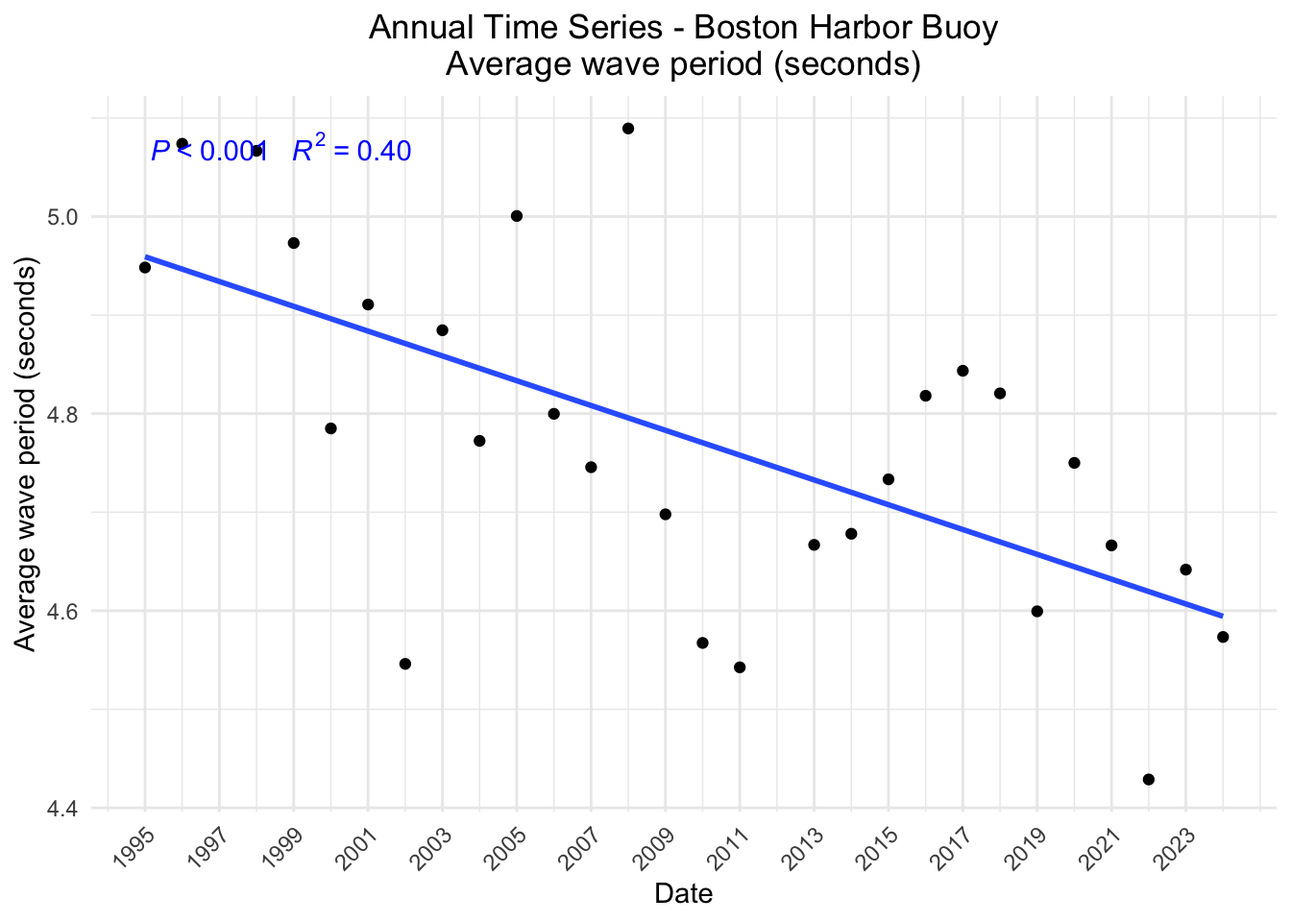
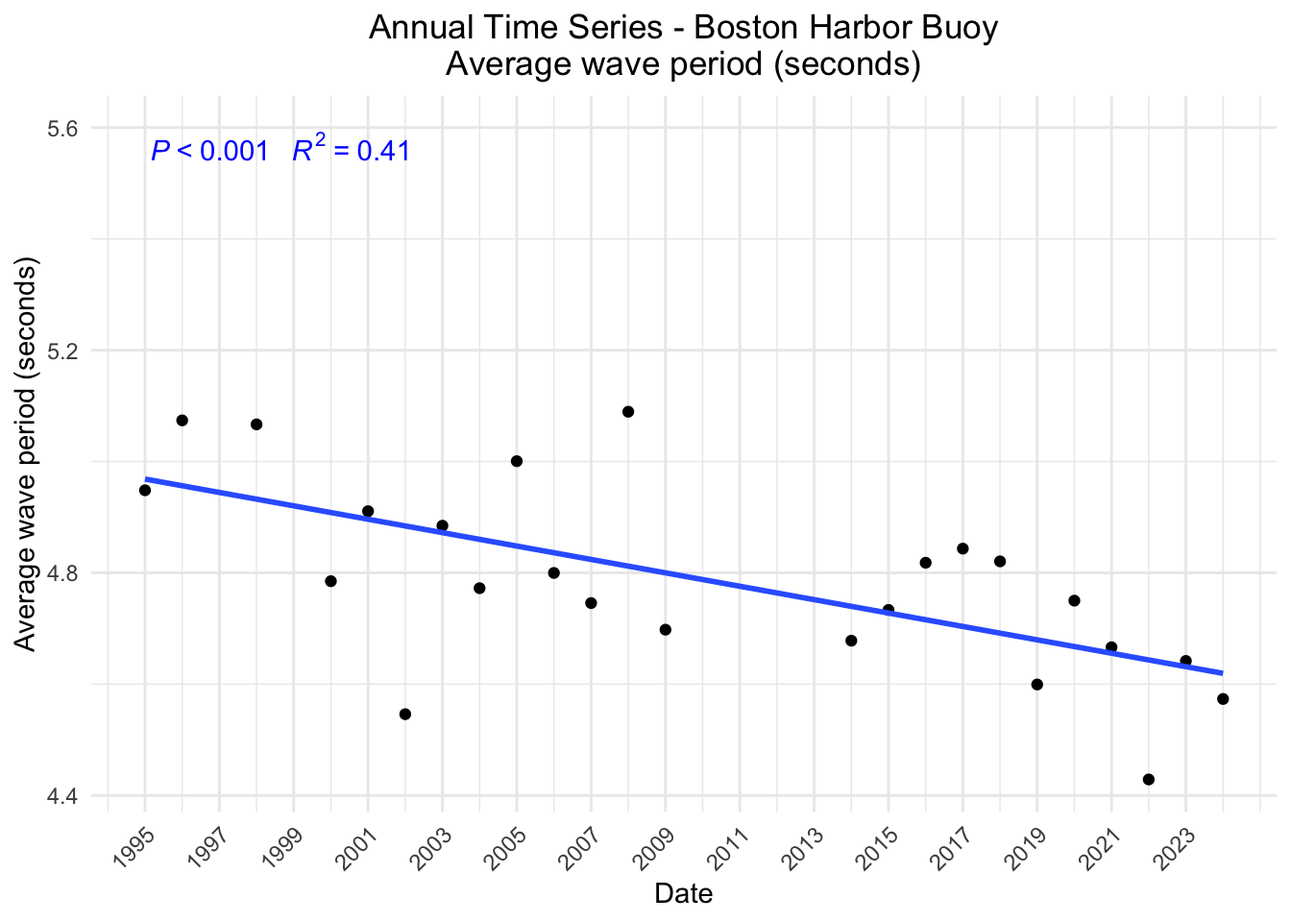
Corrected missing data solution for annual means. Previously had included years with >=80% complete data, now only includes years in which each month has >=80% data.

diff --git a/quarto_docs/buoy_44013_NDBC.html b/quarto_docs/buoy_44013_NDBC.html
@@ -107,8 +107,6 @@ pre > code.sourceCode > span > a:first-child::before { text-decoration: underlin
 <section id="ndbc-buoy-44013---boston-harbor" class="level1">
 <h1>NDBC Buoy 44013 - Boston Harbor</h1>
 <div class="cell">
-<details class="code-fold">
-<summary>Show the code</summary>
 <div class="sourceCode cell-code" id="cb1"><pre class="sourceCode r code-with-copy"><code class="sourceCode r"><span id="cb1-1"><a href="#cb1-1" aria-hidden="true" tabindex="-1"></a><span class="co">#'--------------------------------------</span></span>
 <span id="cb1-2"><a href="#cb1-2" aria-hidden="true" tabindex="-1"></a><span class="co">#' Station 44013</span></span>
 <span id="cb1-3"><a href="#cb1-3" aria-hidden="true" tabindex="-1"></a><span class="co">#' Boston Approach Lighted Buoy BF NOAA 44013</span></span>
@@ -119,7 +117,6 @@ pre > code.sourceCode > span > a:first-child::before { text-decoration: underlin
 <span id="cb1-8"><a href="#cb1-8" aria-hidden="true" tabindex="-1"></a><span class="co">#' Boston Harbor</span></span>
 <span id="cb1-9"><a href="#cb1-9" aria-hidden="true" tabindex="-1"></a><span class="co">#' Owned and maintained by NDBC</span></span>
 <span id="cb1-10"><a href="#cb1-10" aria-hidden="true" tabindex="-1"></a><span class="co">#'--------------------------------------</span></span></code><button title="Copy to Clipboard" class="code-copy-button"><i class="bi"></i></button></pre></div>
-</details>
 </div>
 <section id="load-libraries" class="level3">
 <h3 class="anchored" data-anchor-id="load-libraries">Load Libraries</h3>
@@ -465,68 +462,125 @@ pre > code.sourceCode > span > a:first-child::before { text-decoration: underlin
 <span id="cb6-6"><a href="#cb6-6" aria-hidden="true" tabindex="-1"></a><span class="co">#   summarize(count_obs = n())</span></span>
 <span id="cb6-7"><a href="#cb6-7" aria-hidden="true" tabindex="-1"></a><span class="co"># 1997 and 2012 are missing large time periods of data</span></span>
 <span id="cb6-8"><a href="#cb6-8" aria-hidden="true" tabindex="-1"></a></span>
-<span id="cb6-9"><a href="#cb6-9" aria-hidden="true" tabindex="-1"></a>buoy_data_annual <span class="ot">&lt;-</span> buoy_data_daily <span class="sc">|&gt;</span> </span>
-<span id="cb6-10"><a href="#cb6-10" aria-hidden="true" tabindex="-1"></a>  <span class="fu">group_by</span>(YYYY) <span class="sc">|&gt;</span> </span>
-<span id="cb6-11"><a href="#cb6-11" aria-hidden="true" tabindex="-1"></a>  <span class="co"># 1997 and 2012 are missing large time periods of data. Excluding from annual summaries  </span></span>
-<span id="cb6-12"><a href="#cb6-12" aria-hidden="true" tabindex="-1"></a>  <span class="fu">filter</span>(<span class="sc">!</span>(YYYY <span class="sc">%in%</span> <span class="fu">c</span>(<span class="dv">1997</span>, <span class="dv">2012</span>))) <span class="sc">|&gt;</span> </span>
-<span id="cb6-13"><a href="#cb6-13" aria-hidden="true" tabindex="-1"></a>  <span class="fu">summarize</span>(</span>
-<span id="cb6-14"><a href="#cb6-14" aria-hidden="true" tabindex="-1"></a>    <span class="co"># scalar variables: only mean if ≥80% non‑NA, else NA</span></span>
-<span id="cb6-15"><a href="#cb6-15" aria-hidden="true" tabindex="-1"></a>    <span class="fu">across</span>(<span class="fu">all_of</span>(scalar_variables),</span>
-<span id="cb6-16"><a href="#cb6-16" aria-hidden="true" tabindex="-1"></a>           <span class="sc">~</span> <span class="fu">ifelse</span>(</span>
-<span id="cb6-17"><a href="#cb6-17" aria-hidden="true" tabindex="-1"></a>             <span class="fu">sum</span>(<span class="sc">!</span><span class="fu">is.na</span>(.x)) <span class="sc">&gt;=</span> <span class="fl">0.8</span> <span class="sc">*</span> <span class="fu">n</span>(),</span>
-<span id="cb6-18"><a href="#cb6-18" aria-hidden="true" tabindex="-1"></a>             <span class="fu">mean</span>(.x, <span class="at">na.rm =</span> <span class="cn">TRUE</span>),</span>
-<span id="cb6-19"><a href="#cb6-19" aria-hidden="true" tabindex="-1"></a>             <span class="cn">NA_real_</span></span>
-<span id="cb6-20"><a href="#cb6-20" aria-hidden="true" tabindex="-1"></a>           )</span>
+<span id="cb6-9"><a href="#cb6-9" aria-hidden="true" tabindex="-1"></a></span>
+<span id="cb6-10"><a href="#cb6-10" aria-hidden="true" tabindex="-1"></a><span class="co"># Determine valid years (each month has &gt;= 80% complete data) for each variable</span></span>
+<span id="cb6-11"><a href="#cb6-11" aria-hidden="true" tabindex="-1"></a><span class="co"># For each variable, calculate the annual mean only for years valid for that variable</span></span>
+<span id="cb6-12"><a href="#cb6-12" aria-hidden="true" tabindex="-1"></a>buoy_data_daily_props <span class="ot">&lt;-</span> buoy_data_daily <span class="sc">|&gt;</span> </span>
+<span id="cb6-13"><a href="#cb6-13" aria-hidden="true" tabindex="-1"></a>  <span class="co"># Group by year and month  </span></span>
+<span id="cb6-14"><a href="#cb6-14" aria-hidden="true" tabindex="-1"></a>  <span class="fu">group_by</span>(YYYY, MM) <span class="sc">|&gt;</span> </span>
+<span id="cb6-15"><a href="#cb6-15" aria-hidden="true" tabindex="-1"></a>  <span class="co"># For each variable, determine how many real daily measurements are recorded (not NA or NaN)</span></span>
+<span id="cb6-16"><a href="#cb6-16" aria-hidden="true" tabindex="-1"></a>  <span class="fu">summarize</span>(</span>
+<span id="cb6-17"><a href="#cb6-17" aria-hidden="true" tabindex="-1"></a>    <span class="fu">across</span>(</span>
+<span id="cb6-18"><a href="#cb6-18" aria-hidden="true" tabindex="-1"></a>      <span class="at">.cols =</span> <span class="fu">all_of</span>(variables),</span>
+<span id="cb6-19"><a href="#cb6-19" aria-hidden="true" tabindex="-1"></a>      <span class="at">.fns =</span> <span class="sc">~</span><span class="fu">sum</span>(<span class="sc">!</span><span class="fu">is.na</span>(.)),</span>
+<span id="cb6-20"><a href="#cb6-20" aria-hidden="true" tabindex="-1"></a>      <span class="at">.names =</span> <span class="st">"{.col}"</span></span>
 <span id="cb6-21"><a href="#cb6-21" aria-hidden="true" tabindex="-1"></a>    ),</span>
-<span id="cb6-22"><a href="#cb6-22" aria-hidden="true" tabindex="-1"></a>    </span>
-<span id="cb6-23"><a href="#cb6-23" aria-hidden="true" tabindex="-1"></a>    <span class="co"># angular variables: only circular‐mean if ≥80% non‑NA, else NA</span></span>
-<span id="cb6-24"><a href="#cb6-24" aria-hidden="true" tabindex="-1"></a>    <span class="fu">across</span>(<span class="fu">all_of</span>(angular_variables),</span>
-<span id="cb6-25"><a href="#cb6-25" aria-hidden="true" tabindex="-1"></a>           <span class="sc">~</span> <span class="fu">ifelse</span>(</span>
-<span id="cb6-26"><a href="#cb6-26" aria-hidden="true" tabindex="-1"></a>             <span class="fu">sum</span>(<span class="sc">!</span><span class="fu">is.na</span>(.x)) <span class="sc">&gt;=</span> <span class="fl">0.8</span> <span class="sc">*</span> <span class="fu">n</span>(),</span>
-<span id="cb6-27"><a href="#cb6-27" aria-hidden="true" tabindex="-1"></a>             <span class="fu">as.numeric</span>(</span>
-<span id="cb6-28"><a href="#cb6-28" aria-hidden="true" tabindex="-1"></a>               circular<span class="sc">::</span><span class="fu">mean.circular</span>(</span>
-<span id="cb6-29"><a href="#cb6-29" aria-hidden="true" tabindex="-1"></a>                 circular<span class="sc">::</span><span class="fu">circular</span>(.x, <span class="at">units =</span> <span class="st">"degrees"</span>, <span class="at">modulo =</span> <span class="st">"2pi"</span>),</span>
-<span id="cb6-30"><a href="#cb6-30" aria-hidden="true" tabindex="-1"></a>                 <span class="at">na.rm =</span> <span class="cn">TRUE</span></span>
-<span id="cb6-31"><a href="#cb6-31" aria-hidden="true" tabindex="-1"></a>                 )</span>
-<span id="cb6-32"><a href="#cb6-32" aria-hidden="true" tabindex="-1"></a>               ),</span>
-<span id="cb6-33"><a href="#cb6-33" aria-hidden="true" tabindex="-1"></a>             <span class="cn">NA_real_</span></span>
-<span id="cb6-34"><a href="#cb6-34" aria-hidden="true" tabindex="-1"></a>           )</span>
-<span id="cb6-35"><a href="#cb6-35" aria-hidden="true" tabindex="-1"></a>    ),</span>
-<span id="cb6-36"><a href="#cb6-36" aria-hidden="true" tabindex="-1"></a>    <span class="at">.groups =</span> <span class="st">"drop"</span></span>
-<span id="cb6-37"><a href="#cb6-37" aria-hidden="true" tabindex="-1"></a>  ) <span class="sc">|&gt;</span> </span>
-<span id="cb6-38"><a href="#cb6-38" aria-hidden="true" tabindex="-1"></a>  <span class="fu">relocate</span>(WDIR, <span class="at">.before =</span> WSPD) <span class="sc">|&gt;</span> </span>
-<span id="cb6-39"><a href="#cb6-39" aria-hidden="true" tabindex="-1"></a>  <span class="fu">relocate</span>(MWD, <span class="at">.before =</span> ATMP)</span>
-<span id="cb6-40"><a href="#cb6-40" aria-hidden="true" tabindex="-1"></a></span>
-<span id="cb6-41"><a href="#cb6-41" aria-hidden="true" tabindex="-1"></a></span>
-<span id="cb6-42"><a href="#cb6-42" aria-hidden="true" tabindex="-1"></a><span class="co"># Plot annual mean values for each variable</span></span>
-<span id="cb6-43"><a href="#cb6-43" aria-hidden="true" tabindex="-1"></a><span class="cf">for</span> (var <span class="cf">in</span> variables) {</span>
-<span id="cb6-44"><a href="#cb6-44" aria-hidden="true" tabindex="-1"></a>  p <span class="ot">&lt;-</span> <span class="fu">ggplot</span>(buoy_data_annual,</span>
-<span id="cb6-45"><a href="#cb6-45" aria-hidden="true" tabindex="-1"></a>              <span class="fu">aes</span>(<span class="at">x =</span> YYYY,</span>
-<span id="cb6-46"><a href="#cb6-46" aria-hidden="true" tabindex="-1"></a>                  <span class="at">y =</span> .data[[var]])) <span class="sc">+</span></span>
-<span id="cb6-47"><a href="#cb6-47" aria-hidden="true" tabindex="-1"></a>    <span class="fu">geom_point</span>() <span class="sc">+</span></span>
-<span id="cb6-48"><a href="#cb6-48" aria-hidden="true" tabindex="-1"></a>    <span class="fu">geom_smooth</span>(<span class="at">method =</span> <span class="st">"lm"</span>, <span class="at">se =</span> <span class="cn">FALSE</span>) <span class="sc">+</span></span>
-<span id="cb6-49"><a href="#cb6-49" aria-hidden="true" tabindex="-1"></a>    </span>
-<span id="cb6-50"><a href="#cb6-50" aria-hidden="true" tabindex="-1"></a>    <span class="co"># Annotate plot with simple linear model p-values and R2 values</span></span>
-<span id="cb6-51"><a href="#cb6-51" aria-hidden="true" tabindex="-1"></a>    <span class="fu">stat_poly_eq</span>(</span>
-<span id="cb6-52"><a href="#cb6-52" aria-hidden="true" tabindex="-1"></a>      <span class="fu">aes</span>(</span>
-<span id="cb6-53"><a href="#cb6-53" aria-hidden="true" tabindex="-1"></a>        <span class="at">label =</span> <span class="fu">after_stat</span>(</span>
-<span id="cb6-54"><a href="#cb6-54" aria-hidden="true" tabindex="-1"></a>          <span class="fu">paste0</span>(..p.value.label.., <span class="st">"~~~"</span>, ..rr.label..)</span>
-<span id="cb6-55"><a href="#cb6-55" aria-hidden="true" tabindex="-1"></a>        )</span>
-<span id="cb6-56"><a href="#cb6-56" aria-hidden="true" tabindex="-1"></a>      ),</span>
-<span id="cb6-57"><a href="#cb6-57" aria-hidden="true" tabindex="-1"></a>      <span class="at">formula =</span> y <span class="sc">~</span> x,</span>
-<span id="cb6-58"><a href="#cb6-58" aria-hidden="true" tabindex="-1"></a>      <span class="at">parse =</span> <span class="cn">TRUE</span>,</span>
-<span id="cb6-59"><a href="#cb6-59" aria-hidden="true" tabindex="-1"></a>      <span class="at">color =</span> <span class="st">"blue"</span>) <span class="sc">+</span></span>
-<span id="cb6-60"><a href="#cb6-60" aria-hidden="true" tabindex="-1"></a>    </span>
-<span id="cb6-61"><a href="#cb6-61" aria-hidden="true" tabindex="-1"></a>    <span class="fu">labs</span>(<span class="at">x =</span> <span class="st">"Date"</span>,</span>
-<span id="cb6-62"><a href="#cb6-62" aria-hidden="true" tabindex="-1"></a>         <span class="at">y =</span> variables_meta[[var]],</span>
-<span id="cb6-63"><a href="#cb6-63" aria-hidden="true" tabindex="-1"></a>         <span class="at">title =</span> <span class="fu">paste</span>(<span class="st">"Annual Time Series - Boston Harbor Buoy"</span>,</span>
-<span id="cb6-64"><a href="#cb6-64" aria-hidden="true" tabindex="-1"></a>                       variables_meta[[var]], <span class="at">sep =</span> <span class="st">"</span><span class="sc">\n</span><span class="st">"</span>)) <span class="sc">+</span></span>
-<span id="cb6-65"><a href="#cb6-65" aria-hidden="true" tabindex="-1"></a>    <span class="fu">scale_color_brewer</span>(<span class="at">palette =</span> <span class="st">"Set2"</span>) <span class="sc">+</span></span>
-<span id="cb6-66"><a href="#cb6-66" aria-hidden="true" tabindex="-1"></a>    <span class="fu">scale_x_continuous</span>(</span>
-<span id="cb6-67"><a href="#cb6-67" aria-hidden="true" tabindex="-1"></a>      <span class="at">breaks =</span> <span class="fu">seq</span>(<span class="fu">min</span>(buoy_data_annual<span class="sc">$</span>YYYY), <span class="fu">max</span>(buoy_data_annual<span class="sc">$</span>YYYY), <span class="at">by =</span> <span class="dv">2</span>))</span>
-<span id="cb6-68"><a href="#cb6-68" aria-hidden="true" tabindex="-1"></a>  </span>
-<span id="cb6-69"><a href="#cb6-69" aria-hidden="true" tabindex="-1"></a>  <span class="fu">print</span>(p)</span>
-<span id="cb6-70"><a href="#cb6-70" aria-hidden="true" tabindex="-1"></a>}</span></code><button title="Copy to Clipboard" class="code-copy-button"><i class="bi"></i></button></pre></div>
+<span id="cb6-22"><a href="#cb6-22" aria-hidden="true" tabindex="-1"></a>    <span class="at">.groups =</span> <span class="st">"drop"</span></span>
+<span id="cb6-23"><a href="#cb6-23" aria-hidden="true" tabindex="-1"></a>  ) <span class="sc">|&gt;</span> </span>
+<span id="cb6-24"><a href="#cb6-24" aria-hidden="true" tabindex="-1"></a>  <span class="co"># Create a column for days in the month determined with days_in_month()</span></span>
+<span id="cb6-25"><a href="#cb6-25" aria-hidden="true" tabindex="-1"></a>  <span class="fu">mutate</span>(</span>
+<span id="cb6-26"><a href="#cb6-26" aria-hidden="true" tabindex="-1"></a>    <span class="at">days_in_month =</span> <span class="fu">days_in_month</span>(<span class="fu">ymd</span>(<span class="fu">paste</span>(YYYY, MM, <span class="st">"01"</span>, <span class="at">sep =</span> <span class="st">"-"</span>)))) <span class="sc">|&gt;</span> </span>
+<span id="cb6-27"><a href="#cb6-27" aria-hidden="true" tabindex="-1"></a>  <span class="co"># For each variable, calculate proportion of real daily measurements for each month </span></span>
+<span id="cb6-28"><a href="#cb6-28" aria-hidden="true" tabindex="-1"></a>  <span class="fu">mutate</span>(</span>
+<span id="cb6-29"><a href="#cb6-29" aria-hidden="true" tabindex="-1"></a>    <span class="fu">across</span>(</span>
+<span id="cb6-30"><a href="#cb6-30" aria-hidden="true" tabindex="-1"></a>      <span class="at">.cols =</span> <span class="fu">all_of</span>(variables),</span>
+<span id="cb6-31"><a href="#cb6-31" aria-hidden="true" tabindex="-1"></a>      <span class="at">.fns =</span> <span class="sc">~</span>. <span class="sc">/</span> days_in_month,</span>
+<span id="cb6-32"><a href="#cb6-32" aria-hidden="true" tabindex="-1"></a>      <span class="at">.names =</span> <span class="st">"{.col}_prop"</span>  <span class="co"># or use {.col} to overwrite</span></span>
+<span id="cb6-33"><a href="#cb6-33" aria-hidden="true" tabindex="-1"></a>    )</span>
+<span id="cb6-34"><a href="#cb6-34" aria-hidden="true" tabindex="-1"></a>  )</span>
+<span id="cb6-35"><a href="#cb6-35" aria-hidden="true" tabindex="-1"></a>  </span>
+<span id="cb6-36"><a href="#cb6-36" aria-hidden="true" tabindex="-1"></a><span class="co"># Create a df showing which years are valid,</span></span>
+<span id="cb6-37"><a href="#cb6-37" aria-hidden="true" tabindex="-1"></a><span class="co"># based on each month having at least 80% complete daily data AND there being 12 total months</span></span>
+<span id="cb6-38"><a href="#cb6-38" aria-hidden="true" tabindex="-1"></a>validity_by_year <span class="ot">&lt;-</span> buoy_data_daily_props <span class="sc">|&gt;</span> </span>
+<span id="cb6-39"><a href="#cb6-39" aria-hidden="true" tabindex="-1"></a>  <span class="fu">select</span>(YYYY, MM, <span class="fu">ends_with</span>(<span class="st">"_prop"</span>)) <span class="sc">|&gt;</span> </span>
+<span id="cb6-40"><a href="#cb6-40" aria-hidden="true" tabindex="-1"></a>  <span class="fu">pivot_longer</span>(</span>
+<span id="cb6-41"><a href="#cb6-41" aria-hidden="true" tabindex="-1"></a>    <span class="at">cols =</span> <span class="fu">ends_with</span>(<span class="st">"_prop"</span>),</span>
+<span id="cb6-42"><a href="#cb6-42" aria-hidden="true" tabindex="-1"></a>    <span class="at">names_to =</span> <span class="st">"variable"</span>,</span>
+<span id="cb6-43"><a href="#cb6-43" aria-hidden="true" tabindex="-1"></a>    <span class="at">values_to =</span> <span class="st">"prop"</span></span>
+<span id="cb6-44"><a href="#cb6-44" aria-hidden="true" tabindex="-1"></a>  ) <span class="sc">|&gt;</span> </span>
+<span id="cb6-45"><a href="#cb6-45" aria-hidden="true" tabindex="-1"></a>  <span class="fu">group_by</span>(YYYY, variable) <span class="sc">|&gt;</span> </span>
+<span id="cb6-46"><a href="#cb6-46" aria-hidden="true" tabindex="-1"></a>  <span class="fu">summarize</span>(</span>
+<span id="cb6-47"><a href="#cb6-47" aria-hidden="true" tabindex="-1"></a>    <span class="at">n_months =</span> <span class="fu">n</span>(),</span>
+<span id="cb6-48"><a href="#cb6-48" aria-hidden="true" tabindex="-1"></a>    <span class="at">all_months_above_80 =</span> <span class="fu">all</span>(prop <span class="sc">&gt;=</span> <span class="fl">0.8</span>),</span>
+<span id="cb6-49"><a href="#cb6-49" aria-hidden="true" tabindex="-1"></a>    <span class="at">.groups =</span> <span class="st">"drop"</span></span>
+<span id="cb6-50"><a href="#cb6-50" aria-hidden="true" tabindex="-1"></a>  ) <span class="sc">|&gt;</span> </span>
+<span id="cb6-51"><a href="#cb6-51" aria-hidden="true" tabindex="-1"></a>  <span class="fu">mutate</span>(</span>
+<span id="cb6-52"><a href="#cb6-52" aria-hidden="true" tabindex="-1"></a>    <span class="at">status =</span> <span class="fu">ifelse</span>(n_months <span class="sc">==</span> <span class="dv">12</span> <span class="sc">&amp;</span> all_months_above_80, <span class="st">"valid"</span>, <span class="st">"not valid"</span>)</span>
+<span id="cb6-53"><a href="#cb6-53" aria-hidden="true" tabindex="-1"></a>  ) <span class="sc">|&gt;</span> </span>
+<span id="cb6-54"><a href="#cb6-54" aria-hidden="true" tabindex="-1"></a>  <span class="fu">mutate</span>(<span class="at">variable =</span> <span class="fu">sub</span>(<span class="st">"_prop$"</span>, <span class="st">""</span>, variable))</span>
+<span id="cb6-55"><a href="#cb6-55" aria-hidden="true" tabindex="-1"></a></span>
+<span id="cb6-56"><a href="#cb6-56" aria-hidden="true" tabindex="-1"></a><span class="co"># Calculate annual means</span></span>
+<span id="cb6-57"><a href="#cb6-57" aria-hidden="true" tabindex="-1"></a>buoy_data_annual <span class="ot">&lt;-</span> buoy_data_daily <span class="sc">|&gt;</span> </span>
+<span id="cb6-58"><a href="#cb6-58" aria-hidden="true" tabindex="-1"></a>  <span class="fu">group_by</span>(YYYY) <span class="sc">|&gt;</span> </span>
+<span id="cb6-59"><a href="#cb6-59" aria-hidden="true" tabindex="-1"></a>  <span class="fu">summarize</span>(</span>
+<span id="cb6-60"><a href="#cb6-60" aria-hidden="true" tabindex="-1"></a>    <span class="fu">across</span>(</span>
+<span id="cb6-61"><a href="#cb6-61" aria-hidden="true" tabindex="-1"></a>      <span class="fu">all_of</span>(scalar_variables),</span>
+<span id="cb6-62"><a href="#cb6-62" aria-hidden="true" tabindex="-1"></a>      <span class="sc">~</span> <span class="fu">mean</span>(.x, <span class="at">na.rm =</span> <span class="cn">TRUE</span>)</span>
+<span id="cb6-63"><a href="#cb6-63" aria-hidden="true" tabindex="-1"></a>    ),</span>
+<span id="cb6-64"><a href="#cb6-64" aria-hidden="true" tabindex="-1"></a>    <span class="fu">across</span>(</span>
+<span id="cb6-65"><a href="#cb6-65" aria-hidden="true" tabindex="-1"></a>      <span class="fu">all_of</span>(angular_variables),</span>
+<span id="cb6-66"><a href="#cb6-66" aria-hidden="true" tabindex="-1"></a>      <span class="sc">~</span> <span class="fu">as.numeric</span>(</span>
+<span id="cb6-67"><a href="#cb6-67" aria-hidden="true" tabindex="-1"></a>        circular<span class="sc">::</span><span class="fu">mean.circular</span>(</span>
+<span id="cb6-68"><a href="#cb6-68" aria-hidden="true" tabindex="-1"></a>          circular<span class="sc">::</span><span class="fu">circular</span>(.x, <span class="at">units =</span> <span class="st">"degrees"</span>, <span class="at">modulo =</span> <span class="st">"2pi"</span>),</span>
+<span id="cb6-69"><a href="#cb6-69" aria-hidden="true" tabindex="-1"></a>          <span class="at">na.rm =</span> <span class="cn">TRUE</span></span>
+<span id="cb6-70"><a href="#cb6-70" aria-hidden="true" tabindex="-1"></a>        )</span>
+<span id="cb6-71"><a href="#cb6-71" aria-hidden="true" tabindex="-1"></a>      )</span>
+<span id="cb6-72"><a href="#cb6-72" aria-hidden="true" tabindex="-1"></a>    ),</span>
+<span id="cb6-73"><a href="#cb6-73" aria-hidden="true" tabindex="-1"></a>    <span class="at">.groups =</span> <span class="st">"drop"</span></span>
+<span id="cb6-74"><a href="#cb6-74" aria-hidden="true" tabindex="-1"></a>  ) <span class="sc">|&gt;</span> </span>
+<span id="cb6-75"><a href="#cb6-75" aria-hidden="true" tabindex="-1"></a>  <span class="fu">pivot_longer</span>(</span>
+<span id="cb6-76"><a href="#cb6-76" aria-hidden="true" tabindex="-1"></a>    <span class="at">cols =</span> <span class="sc">-</span>YYYY,</span>
+<span id="cb6-77"><a href="#cb6-77" aria-hidden="true" tabindex="-1"></a>    <span class="at">names_to =</span> <span class="st">"variable"</span>,</span>
+<span id="cb6-78"><a href="#cb6-78" aria-hidden="true" tabindex="-1"></a>    <span class="at">values_to =</span> <span class="st">"annual_mean"</span></span>
+<span id="cb6-79"><a href="#cb6-79" aria-hidden="true" tabindex="-1"></a>  ) <span class="sc">|&gt;</span> </span>
+<span id="cb6-80"><a href="#cb6-80" aria-hidden="true" tabindex="-1"></a>  <span class="fu">left_join</span>(validity_by_year, <span class="at">by =</span> <span class="fu">c</span>(<span class="st">"YYYY"</span>, <span class="st">"variable"</span>)) <span class="sc">|&gt;</span> </span>
+<span id="cb6-81"><a href="#cb6-81" aria-hidden="true" tabindex="-1"></a>  <span class="co"># For invalid year-variables, change the calculated mean to NA</span></span>
+<span id="cb6-82"><a href="#cb6-82" aria-hidden="true" tabindex="-1"></a>  <span class="fu">mutate</span>(</span>
+<span id="cb6-83"><a href="#cb6-83" aria-hidden="true" tabindex="-1"></a>    <span class="at">annual_mean =</span> <span class="fu">ifelse</span>(status <span class="sc">==</span> <span class="st">"valid"</span>, annual_mean, <span class="cn">NA_real_</span>)</span>
+<span id="cb6-84"><a href="#cb6-84" aria-hidden="true" tabindex="-1"></a>  ) <span class="sc">|&gt;</span> </span>
+<span id="cb6-85"><a href="#cb6-85" aria-hidden="true" tabindex="-1"></a>  <span class="fu">select</span>(<span class="sc">-</span><span class="fu">c</span>(n_months, all_months_above_80, status)) <span class="sc">|&gt;</span> </span>
+<span id="cb6-86"><a href="#cb6-86" aria-hidden="true" tabindex="-1"></a>  <span class="co"># Pivot back wider for plotting</span></span>
+<span id="cb6-87"><a href="#cb6-87" aria-hidden="true" tabindex="-1"></a>  <span class="fu">pivot_wider</span>(<span class="at">names_from =</span> variable, <span class="at">values_from =</span> annual_mean) <span class="sc">|&gt;</span> </span>
+<span id="cb6-88"><a href="#cb6-88" aria-hidden="true" tabindex="-1"></a>  <span class="fu">relocate</span>(WDIR, <span class="at">.before =</span> WSPD) <span class="sc">|&gt;</span> </span>
+<span id="cb6-89"><a href="#cb6-89" aria-hidden="true" tabindex="-1"></a>  <span class="fu">relocate</span>(MWD, <span class="at">.before =</span> ATMP)</span>
+<span id="cb6-90"><a href="#cb6-90" aria-hidden="true" tabindex="-1"></a>  </span>
+<span id="cb6-91"><a href="#cb6-91" aria-hidden="true" tabindex="-1"></a></span>
+<span id="cb6-92"><a href="#cb6-92" aria-hidden="true" tabindex="-1"></a><span class="co"># Plot annual mean values for each variable</span></span>
+<span id="cb6-93"><a href="#cb6-93" aria-hidden="true" tabindex="-1"></a><span class="cf">for</span> (var <span class="cf">in</span> variables) {</span>
+<span id="cb6-94"><a href="#cb6-94" aria-hidden="true" tabindex="-1"></a>  </span>
+<span id="cb6-95"><a href="#cb6-95" aria-hidden="true" tabindex="-1"></a>  <span class="co"># Determine y_max to create vertical padding so stat_poly_eq annotations will be visible</span></span>
+<span id="cb6-96"><a href="#cb6-96" aria-hidden="true" tabindex="-1"></a>  y_max <span class="ot">&lt;-</span> <span class="fu">max</span>(buoy_data_annual[[var]], <span class="at">na.rm =</span> <span class="cn">TRUE</span>) <span class="sc">*</span> <span class="fl">1.1</span></span>
+<span id="cb6-97"><a href="#cb6-97" aria-hidden="true" tabindex="-1"></a>  </span>
+<span id="cb6-98"><a href="#cb6-98" aria-hidden="true" tabindex="-1"></a>  p <span class="ot">&lt;-</span> <span class="fu">ggplot</span>(buoy_data_annual,</span>
+<span id="cb6-99"><a href="#cb6-99" aria-hidden="true" tabindex="-1"></a>              <span class="fu">aes</span>(<span class="at">x =</span> YYYY,</span>
+<span id="cb6-100"><a href="#cb6-100" aria-hidden="true" tabindex="-1"></a>                  <span class="at">y =</span> .data[[var]])) <span class="sc">+</span></span>
+<span id="cb6-101"><a href="#cb6-101" aria-hidden="true" tabindex="-1"></a>    <span class="fu">geom_point</span>(<span class="at">na.rm =</span> <span class="cn">TRUE</span>) <span class="sc">+</span></span>
+<span id="cb6-102"><a href="#cb6-102" aria-hidden="true" tabindex="-1"></a>    <span class="fu">geom_smooth</span>(<span class="at">method =</span> <span class="st">"lm"</span>, <span class="at">se =</span> <span class="cn">FALSE</span>) <span class="sc">+</span></span>
+<span id="cb6-103"><a href="#cb6-103" aria-hidden="true" tabindex="-1"></a>    </span>
+<span id="cb6-104"><a href="#cb6-104" aria-hidden="true" tabindex="-1"></a>    <span class="co"># Annotate plot with simple linear model p-values and R2 values</span></span>
+<span id="cb6-105"><a href="#cb6-105" aria-hidden="true" tabindex="-1"></a>    <span class="fu">stat_poly_eq</span>(</span>
+<span id="cb6-106"><a href="#cb6-106" aria-hidden="true" tabindex="-1"></a>      <span class="fu">aes</span>(</span>
+<span id="cb6-107"><a href="#cb6-107" aria-hidden="true" tabindex="-1"></a>        <span class="at">label =</span> <span class="fu">after_stat</span>(</span>
+<span id="cb6-108"><a href="#cb6-108" aria-hidden="true" tabindex="-1"></a>          <span class="fu">paste0</span>(..p.value.label.., <span class="st">"~~~"</span>, ..rr.label..)</span>
+<span id="cb6-109"><a href="#cb6-109" aria-hidden="true" tabindex="-1"></a>        )</span>
+<span id="cb6-110"><a href="#cb6-110" aria-hidden="true" tabindex="-1"></a>      ),</span>
+<span id="cb6-111"><a href="#cb6-111" aria-hidden="true" tabindex="-1"></a>      <span class="at">formula =</span> y <span class="sc">~</span> x,</span>
+<span id="cb6-112"><a href="#cb6-112" aria-hidden="true" tabindex="-1"></a>      <span class="at">parse =</span> <span class="cn">TRUE</span>,</span>
+<span id="cb6-113"><a href="#cb6-113" aria-hidden="true" tabindex="-1"></a>      <span class="at">color =</span> <span class="st">"blue"</span>) <span class="sc">+</span></span>
+<span id="cb6-114"><a href="#cb6-114" aria-hidden="true" tabindex="-1"></a>    </span>
+<span id="cb6-115"><a href="#cb6-115" aria-hidden="true" tabindex="-1"></a>    <span class="fu">labs</span>(<span class="at">x =</span> <span class="st">"Date"</span>,</span>
+<span id="cb6-116"><a href="#cb6-116" aria-hidden="true" tabindex="-1"></a>         <span class="at">y =</span> variables_meta[[var]],</span>
+<span id="cb6-117"><a href="#cb6-117" aria-hidden="true" tabindex="-1"></a>         <span class="at">title =</span> <span class="fu">paste</span>(<span class="st">"Annual Time Series - Boston Harbor Buoy"</span>,</span>
+<span id="cb6-118"><a href="#cb6-118" aria-hidden="true" tabindex="-1"></a>                       variables_meta[[var]], <span class="at">sep =</span> <span class="st">"</span><span class="sc">\n</span><span class="st">"</span>)) <span class="sc">+</span></span>
+<span id="cb6-119"><a href="#cb6-119" aria-hidden="true" tabindex="-1"></a>    <span class="fu">scale_color_brewer</span>(<span class="at">palette =</span> <span class="st">"Set2"</span>) <span class="sc">+</span></span>
+<span id="cb6-120"><a href="#cb6-120" aria-hidden="true" tabindex="-1"></a>    <span class="fu">scale_x_continuous</span>(</span>
+<span id="cb6-121"><a href="#cb6-121" aria-hidden="true" tabindex="-1"></a>      <span class="at">breaks =</span> <span class="fu">seq</span>(<span class="fu">min</span>(buoy_data_annual<span class="sc">$</span>YYYY), <span class="fu">max</span>(buoy_data_annual<span class="sc">$</span>YYYY), <span class="at">by =</span> <span class="dv">2</span>)) <span class="sc">+</span></span>
+<span id="cb6-122"><a href="#cb6-122" aria-hidden="true" tabindex="-1"></a>    </span>
+<span id="cb6-123"><a href="#cb6-123" aria-hidden="true" tabindex="-1"></a>    <span class="co"># Add vertical padding</span></span>
+<span id="cb6-124"><a href="#cb6-124" aria-hidden="true" tabindex="-1"></a>    <span class="fu">scale_y_continuous</span>(<span class="at">limits =</span> <span class="fu">c</span>(<span class="cn">NA</span>, y_max))</span>
+<span id="cb6-125"><a href="#cb6-125" aria-hidden="true" tabindex="-1"></a>  </span>
+<span id="cb6-126"><a href="#cb6-126" aria-hidden="true" tabindex="-1"></a>  <span class="fu">print</span>(p)</span>
+<span id="cb6-127"><a href="#cb6-127" aria-hidden="true" tabindex="-1"></a>}</span></code><button title="Copy to Clipboard" class="code-copy-button"><i class="bi"></i></button></pre></div>
 </details>
 <div class="cell-output-display">
 <div>
@@ -633,31 +687,32 @@ pre > code.sourceCode > span > a:first-child::before { text-decoration: underlin
 <span id="cb7-3"><a href="#cb7-3" aria-hidden="true" tabindex="-1"></a>  p <span class="ot">&lt;-</span> <span class="fu">ggplot</span>(<span class="fu">filter</span>(buoy_data_annual, YYYY <span class="sc">%in%</span> <span class="fu">c</span>(<span class="dv">2003</span><span class="sc">:</span><span class="dv">2014</span>)),</span>
 <span id="cb7-4"><a href="#cb7-4" aria-hidden="true" tabindex="-1"></a>              <span class="fu">aes</span>(<span class="at">x =</span> YYYY,</span>
 <span id="cb7-5"><a href="#cb7-5" aria-hidden="true" tabindex="-1"></a>                  <span class="at">y =</span> .data[[var]])) <span class="sc">+</span></span>
-<span id="cb7-6"><a href="#cb7-6" aria-hidden="true" tabindex="-1"></a>    <span class="fu">geom_point</span>(<span class="at">color =</span> <span class="st">"blue"</span>) <span class="sc">+</span></span>
-<span id="cb7-7"><a href="#cb7-7" aria-hidden="true" tabindex="-1"></a>    <span class="fu">geom_line</span>(<span class="at">color =</span> <span class="st">"blue"</span>) <span class="sc">+</span></span>
-<span id="cb7-8"><a href="#cb7-8" aria-hidden="true" tabindex="-1"></a>    <span class="fu">geom_smooth</span>(<span class="at">method =</span> <span class="st">"lm"</span>, <span class="at">se =</span> <span class="cn">FALSE</span>) <span class="sc">+</span></span>
-<span id="cb7-9"><a href="#cb7-9" aria-hidden="true" tabindex="-1"></a>    </span>
-<span id="cb7-10"><a href="#cb7-10" aria-hidden="true" tabindex="-1"></a>    <span class="co"># Annotate plot with simple linear model p-values and R2 values</span></span>
-<span id="cb7-11"><a href="#cb7-11" aria-hidden="true" tabindex="-1"></a>    <span class="fu">stat_poly_eq</span>(</span>
-<span id="cb7-12"><a href="#cb7-12" aria-hidden="true" tabindex="-1"></a>      <span class="fu">aes</span>(</span>
-<span id="cb7-13"><a href="#cb7-13" aria-hidden="true" tabindex="-1"></a>        <span class="at">label =</span> <span class="fu">after_stat</span>(</span>
-<span id="cb7-14"><a href="#cb7-14" aria-hidden="true" tabindex="-1"></a>          <span class="fu">paste0</span>(..p.value.label.., <span class="st">"~~~"</span>, ..rr.label..)</span>
-<span id="cb7-15"><a href="#cb7-15" aria-hidden="true" tabindex="-1"></a>        )</span>
-<span id="cb7-16"><a href="#cb7-16" aria-hidden="true" tabindex="-1"></a>      ),</span>
-<span id="cb7-17"><a href="#cb7-17" aria-hidden="true" tabindex="-1"></a>      <span class="at">formula =</span> y <span class="sc">~</span> x,</span>
-<span id="cb7-18"><a href="#cb7-18" aria-hidden="true" tabindex="-1"></a>      <span class="at">parse =</span> <span class="cn">TRUE</span>,</span>
-<span id="cb7-19"><a href="#cb7-19" aria-hidden="true" tabindex="-1"></a>      <span class="at">color =</span> <span class="st">"blue"</span>) <span class="sc">+</span></span>
-<span id="cb7-20"><a href="#cb7-20" aria-hidden="true" tabindex="-1"></a>    </span>
-<span id="cb7-21"><a href="#cb7-21" aria-hidden="true" tabindex="-1"></a>    <span class="fu">labs</span>(<span class="at">x =</span> <span class="st">"Date"</span>,</span>
-<span id="cb7-22"><a href="#cb7-22" aria-hidden="true" tabindex="-1"></a>         <span class="at">y =</span> variables_meta[[var]],</span>
-<span id="cb7-23"><a href="#cb7-23" aria-hidden="true" tabindex="-1"></a>         <span class="at">title =</span> <span class="fu">paste</span>(<span class="st">"Annual Time Series - Boston Harbor Buoy"</span>,</span>
-<span id="cb7-24"><a href="#cb7-24" aria-hidden="true" tabindex="-1"></a>                       variables_meta[[var]], <span class="at">sep =</span> <span class="st">"</span><span class="sc">\n</span><span class="st">"</span>)) <span class="sc">+</span></span>
-<span id="cb7-25"><a href="#cb7-25" aria-hidden="true" tabindex="-1"></a>    <span class="fu">scale_color_brewer</span>(<span class="at">palette =</span> <span class="st">"Set2"</span>) <span class="sc">+</span></span>
-<span id="cb7-26"><a href="#cb7-26" aria-hidden="true" tabindex="-1"></a>    <span class="fu">scale_x_continuous</span>(</span>
-<span id="cb7-27"><a href="#cb7-27" aria-hidden="true" tabindex="-1"></a>      <span class="at">breaks =</span> <span class="fu">seq</span>(<span class="fu">min</span>(buoy_data_annual<span class="sc">$</span>YYYY), <span class="fu">max</span>(buoy_data_annual<span class="sc">$</span>YYYY), <span class="at">by =</span> <span class="dv">2</span>))</span>
-<span id="cb7-28"><a href="#cb7-28" aria-hidden="true" tabindex="-1"></a>  </span>
-<span id="cb7-29"><a href="#cb7-29" aria-hidden="true" tabindex="-1"></a>  <span class="fu">print</span>(p)</span>
-<span id="cb7-30"><a href="#cb7-30" aria-hidden="true" tabindex="-1"></a>}</span></code><button title="Copy to Clipboard" class="code-copy-button"><i class="bi"></i></button></pre></div>
+<span id="cb7-6"><a href="#cb7-6" aria-hidden="true" tabindex="-1"></a>    <span class="fu">geom_point</span>(<span class="at">color =</span> <span class="st">"blue"</span>, <span class="at">na.rm =</span> <span class="cn">TRUE</span>) <span class="sc">+</span></span>
+<span id="cb7-7"><a href="#cb7-7" aria-hidden="true" tabindex="-1"></a>    <span class="co"># geom_line only includes non-na variables to ensure continuous connection</span></span>
+<span id="cb7-8"><a href="#cb7-8" aria-hidden="true" tabindex="-1"></a>    <span class="fu">geom_line</span>(<span class="at">data =</span> <span class="fu">filter</span>(buoy_data_annual, <span class="sc">!</span><span class="fu">is.na</span>(.data[[var]]) <span class="sc">&amp;</span> YYYY <span class="sc">%in%</span> <span class="fu">c</span>(<span class="dv">2003</span><span class="sc">:</span><span class="dv">2014</span>)), <span class="at">color =</span> <span class="st">"blue"</span>) <span class="sc">+</span></span>
+<span id="cb7-9"><a href="#cb7-9" aria-hidden="true" tabindex="-1"></a>    <span class="fu">geom_smooth</span>(<span class="at">method =</span> <span class="st">"lm"</span>, <span class="at">se =</span> <span class="cn">FALSE</span>, <span class="at">na.rm =</span> <span class="cn">TRUE</span>) <span class="sc">+</span></span>
+<span id="cb7-10"><a href="#cb7-10" aria-hidden="true" tabindex="-1"></a>    </span>
+<span id="cb7-11"><a href="#cb7-11" aria-hidden="true" tabindex="-1"></a>    <span class="co"># Annotate plot with simple linear model p-values and R2 values</span></span>
+<span id="cb7-12"><a href="#cb7-12" aria-hidden="true" tabindex="-1"></a>    <span class="fu">stat_poly_eq</span>(</span>
+<span id="cb7-13"><a href="#cb7-13" aria-hidden="true" tabindex="-1"></a>      <span class="fu">aes</span>(</span>
+<span id="cb7-14"><a href="#cb7-14" aria-hidden="true" tabindex="-1"></a>        <span class="at">label =</span> <span class="fu">after_stat</span>(</span>
+<span id="cb7-15"><a href="#cb7-15" aria-hidden="true" tabindex="-1"></a>          <span class="fu">paste0</span>(..p.value.label.., <span class="st">"~~~"</span>, ..rr.label..)</span>
+<span id="cb7-16"><a href="#cb7-16" aria-hidden="true" tabindex="-1"></a>        )</span>
+<span id="cb7-17"><a href="#cb7-17" aria-hidden="true" tabindex="-1"></a>      ),</span>
+<span id="cb7-18"><a href="#cb7-18" aria-hidden="true" tabindex="-1"></a>      <span class="at">formula =</span> y <span class="sc">~</span> x,</span>
+<span id="cb7-19"><a href="#cb7-19" aria-hidden="true" tabindex="-1"></a>      <span class="at">parse =</span> <span class="cn">TRUE</span>,</span>
+<span id="cb7-20"><a href="#cb7-20" aria-hidden="true" tabindex="-1"></a>      <span class="at">color =</span> <span class="st">"blue"</span>) <span class="sc">+</span></span>
+<span id="cb7-21"><a href="#cb7-21" aria-hidden="true" tabindex="-1"></a>    </span>
+<span id="cb7-22"><a href="#cb7-22" aria-hidden="true" tabindex="-1"></a>    <span class="fu">labs</span>(<span class="at">x =</span> <span class="st">"Date"</span>,</span>
+<span id="cb7-23"><a href="#cb7-23" aria-hidden="true" tabindex="-1"></a>         <span class="at">y =</span> variables_meta[[var]],</span>
+<span id="cb7-24"><a href="#cb7-24" aria-hidden="true" tabindex="-1"></a>         <span class="at">title =</span> <span class="fu">paste</span>(<span class="st">"Annual Time Series - Boston Harbor Buoy"</span>,</span>
+<span id="cb7-25"><a href="#cb7-25" aria-hidden="true" tabindex="-1"></a>                       variables_meta[[var]], <span class="at">sep =</span> <span class="st">"</span><span class="sc">\n</span><span class="st">"</span>)) <span class="sc">+</span></span>
+<span id="cb7-26"><a href="#cb7-26" aria-hidden="true" tabindex="-1"></a>    <span class="fu">scale_color_brewer</span>(<span class="at">palette =</span> <span class="st">"Set2"</span>) <span class="sc">+</span></span>
+<span id="cb7-27"><a href="#cb7-27" aria-hidden="true" tabindex="-1"></a>    <span class="fu">scale_x_continuous</span>(</span>
+<span id="cb7-28"><a href="#cb7-28" aria-hidden="true" tabindex="-1"></a>      <span class="at">breaks =</span> <span class="fu">seq</span>(<span class="fu">min</span>(buoy_data_annual<span class="sc">$</span>YYYY), <span class="fu">max</span>(buoy_data_annual<span class="sc">$</span>YYYY), <span class="at">by =</span> <span class="dv">2</span>))</span>
+<span id="cb7-29"><a href="#cb7-29" aria-hidden="true" tabindex="-1"></a>  </span>
+<span id="cb7-30"><a href="#cb7-30" aria-hidden="true" tabindex="-1"></a>  <span class="fu">print</span>(p)</span>
+<span id="cb7-31"><a href="#cb7-31" aria-hidden="true" tabindex="-1"></a>}</span></code><button title="Copy to Clipboard" class="code-copy-button"><i class="bi"></i></button></pre></div>
 </details>
 <div class="cell-output-display">
 <div>
